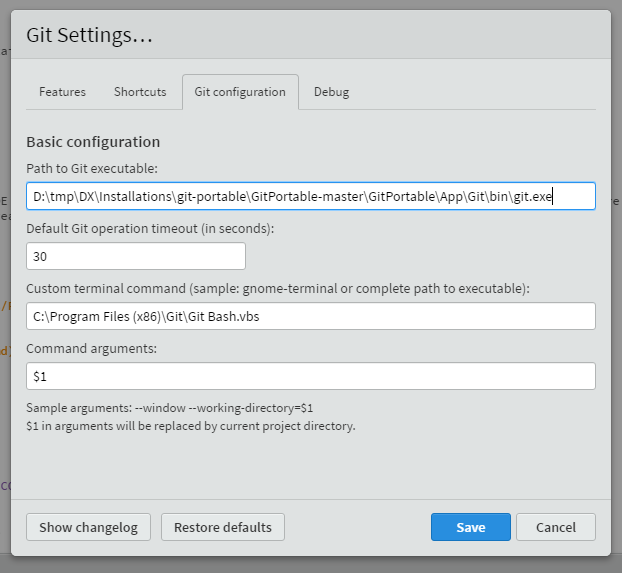
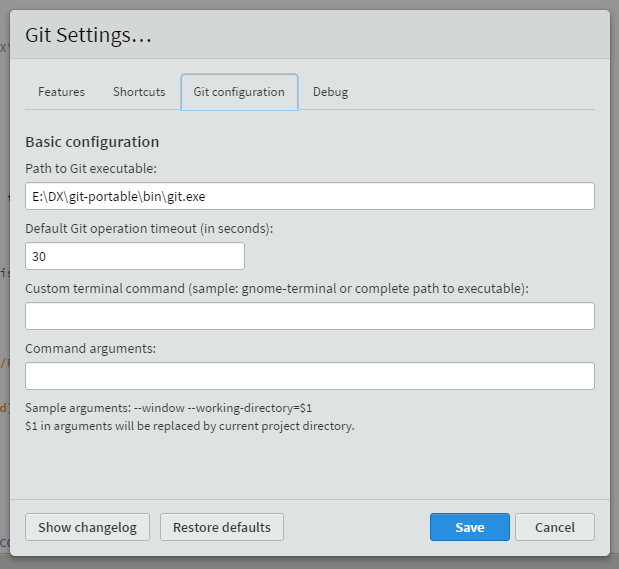
updated git location on distro

diff --git a/README.md b/README.md
@@ -29,7 +29,7 @@ If you wish to use the portable brackets and you haven't installed git before, t
 
 ##### **STEP 1:** Start Brackets
 
-- You can find the portable version of brackets in `DX\Installations\brackets-portable` directory.
+- You can find the portable version of brackets in `DX\brackets-portable` directory.
 
 - Start `BracketsPortable.exe`
 
@@ -40,7 +40,7 @@ If you wish to use the portable brackets and you haven't installed git before, t
     ![](common/images/brackets-install-001.png)
 
 - Configure the path to git to be full path including the filename.
-    eg. `D:\projects\DX\Installations\git-portable\GitPortable-master\GitPortable\App\Git\bin\git.exe`
+    eg. `D:\projects\DX\git-portable\bin\git.exe`
 
     ![](common/images/brackets-install-002.png)
 
